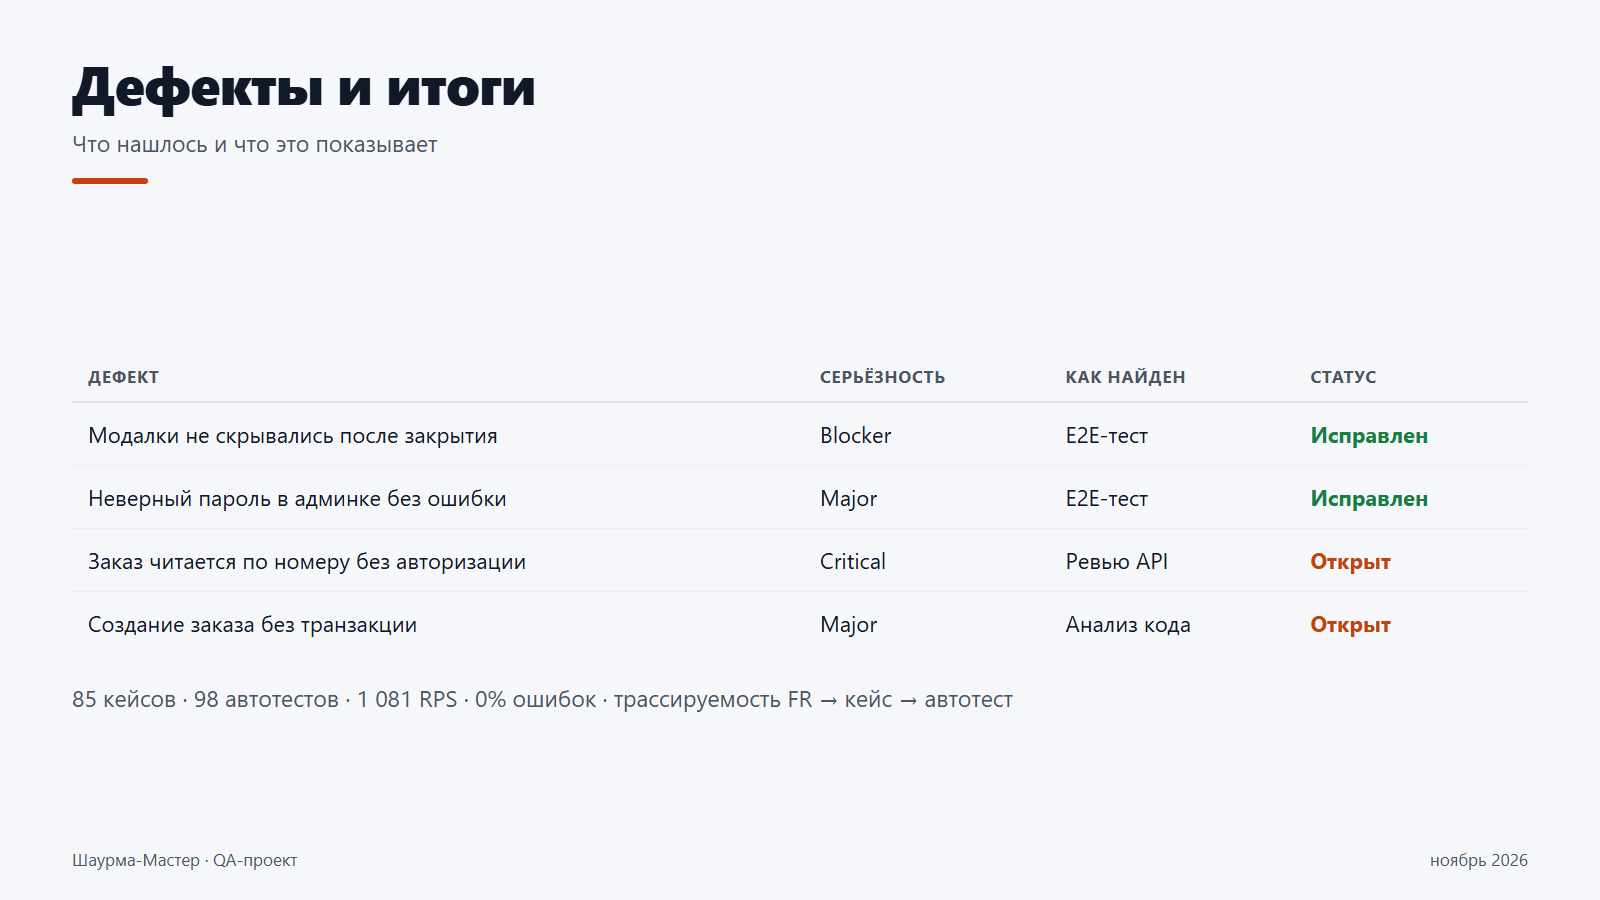
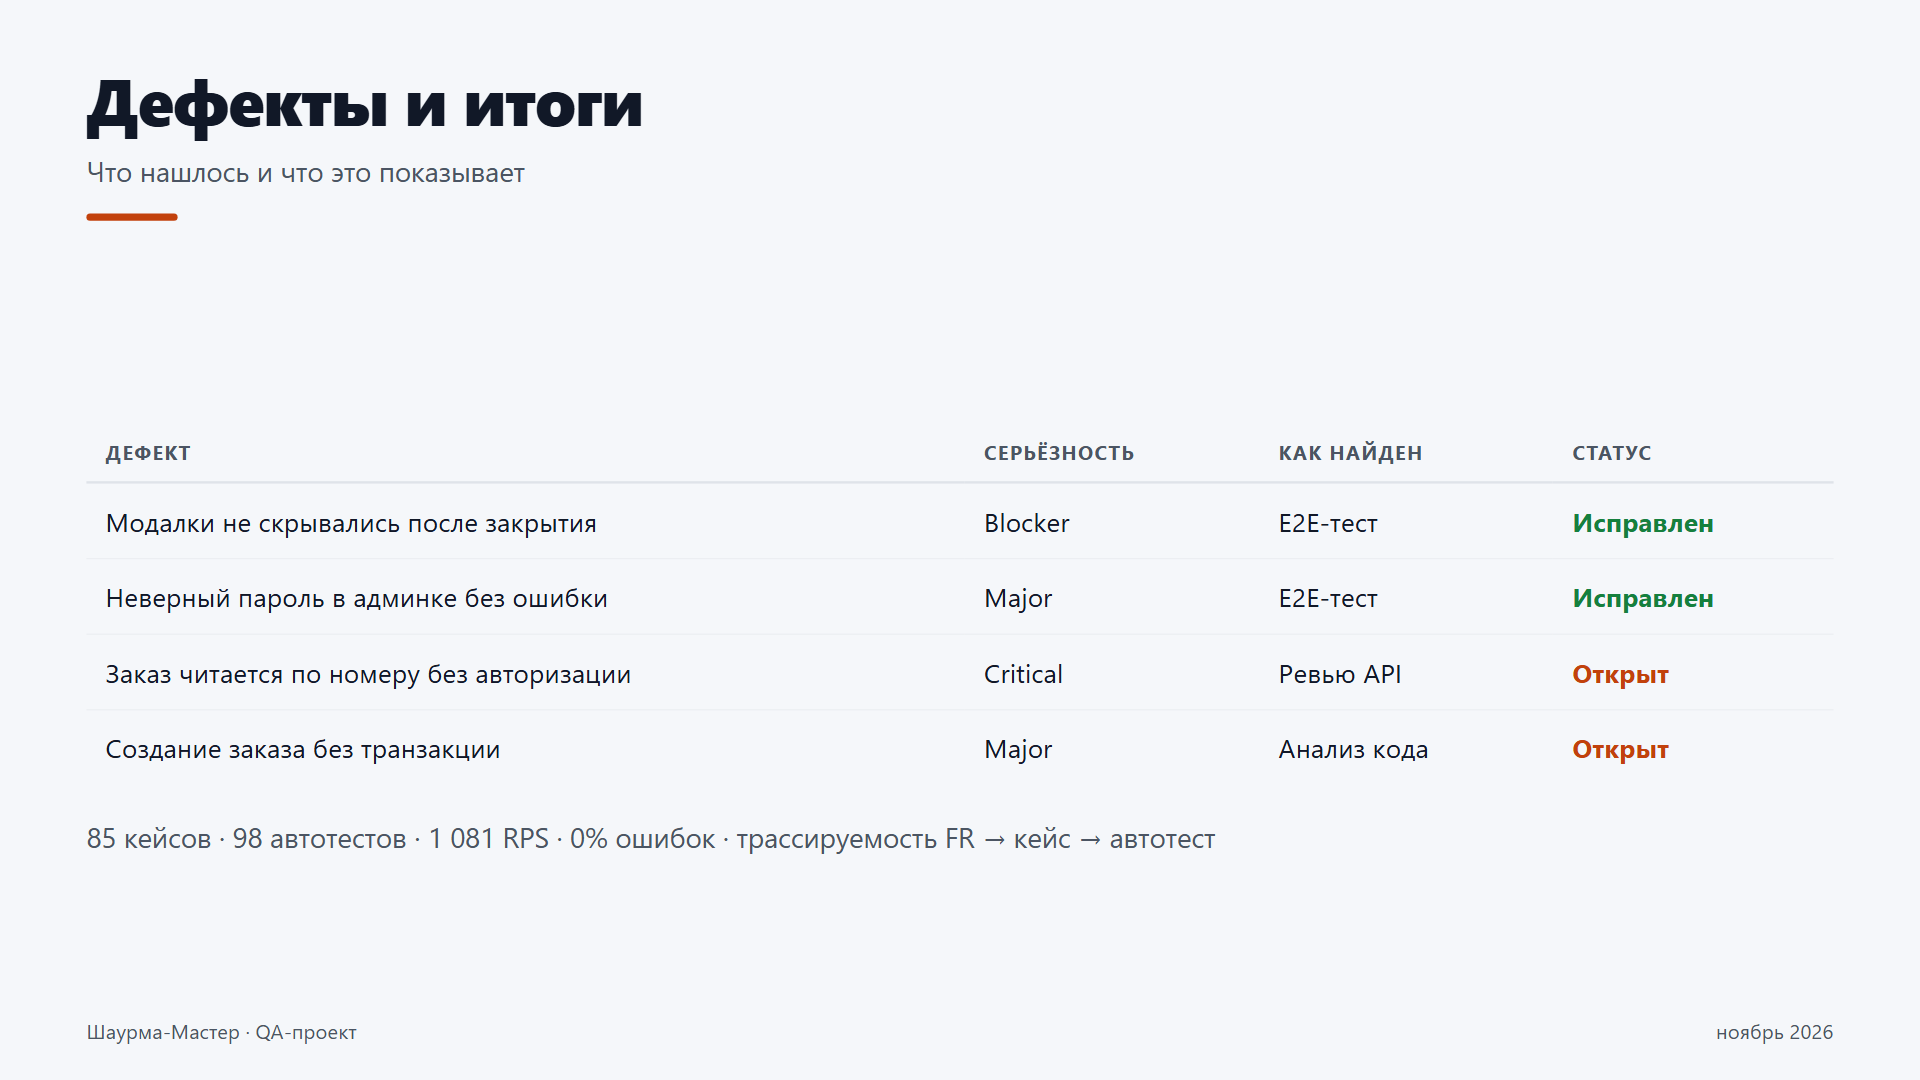
docs: слайды пересобраны в 1920x1080, нагрузочная презентация в светлой теме

diff --git a/README.md b/README.md
@@ -76,7 +76,7 @@ Shawarma Project (SCRUM)
 
 ## 🎬 Презентация проекта
 
-Восемь слайдов о проекте и процессе тестирования: архитектура, артефакты, подход, кейсы, автотесты, нагрузка, итоги.
+Восемь слайдов 1920×1080 о проекте и процессе тестирования: архитектура, артефакты, подход, кейсы, автотесты, нагрузка, итоги.
 
 <table>
   <tr>
@@ -566,7 +566,7 @@ node .tmp/parse-load.mjs      # метрики в load/metrics.json
 node .tmp/build-slides.mjs    # слайды в load/presentation
 ```
 
-Презентация с результатами — [`load/presentation/`](load/presentation/) (7 слайдов). Кейсы — эпик [⚡ Нагрузочное тестирование](https://boysporting.atlassian.net/browse/SCRUM-111): 6 пройдено, 2 в бэклоге (soak и стресс).
+Презентация с результатами — [`load/presentation/`](load/presentation/) (7 слайдов, 1920×1080). Кейсы — эпик [⚡ Нагрузочное тестирование](https://boysporting.atlassian.net/browse/SCRUM-111): 6 пройдено, 2 в бэклоге (soak и стресс).
 
 ![Результаты нагрузочного тестирования](load/presentation/slide-1.png)
 
